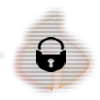
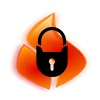
navegacion(regreso a perfiljugador e imagenes)
se crea el boton y la imlentacion de regreso a perfil jugador

diff --git a/FRONTEND/juego/js/logros/logros.js b/FRONTEND/juego/js/logros/logros.js
@@ -1,11 +1,12 @@
+
 var speedMult = 0.2;
 var friction = 0.99;
-var logros = ["Mi KuPlagio","Mi LifePlagio","Mi SkillPlagio","The originalPlagio","Mi HitBackground","Trendy","The Richest","The Unlocker","The A – List","5 in a row"];
+var charactersl = ["Mi KuPlagio","Mi LifePlagio","Mi SkillPlagio","The originalPlagio","Mi HitBackground","Trendy","The Richest","The Unlocker","The A – List","5 in a row"];
 // Nombres personajes Pacto de honor
-var namesLogros = ["Mi KuPlagio", "Mi LifePlagio ", "Mi SkillPlagio ", "The originalPlagio ", "Mi HitBackground  \n“Es poseedor de la experiencia, “Campeón de habilidades”", "Trendy  \n“Este logro indica que eres súper popular”", "The Richest  \n“Podrás presumir tu fortuna”", "The Unlocker \n“Eres el encargado para recuperar a todos los héroes”", "The A – List \n“Aquí mostrarás tus habilidades al llegar al top”","5 in a row \n“Cambio de un mundo a otro con un desempeño perfecto”",];
-var Logroslooked = [true, true, false , false, false, false, false, false, false, true];
+var namesCharactersl = ["Mi KuPlagio", "Mi LifePlagio ", "Mi SkillPlagio ", "The originalPlagio ", "Mi HitBackground  \n“Es poseedor de la experiencia, “Campeón de habilidades”", "Trendy  \n“Este logro indica que eres súper popular”", "The Richest  \n“Podrás presumir tu fortuna”", "The Unlocker \n“Eres el encargado para recuperar a todos los héroes”", "The A – List \n“Aquí mostrarás tus habilidades al llegar al top”","5 in a row \n“Cambio de un mundo a otro con un desempeño perfecto”",];
+var Logroslooked = [true, false, false , false, false, false, false, false, false, false];
 var description;
-var logro;
+var character;
 var apodo;
 var startButton;
 // Descripción de los logros
@@ -19,43 +20,50 @@ var descriptions = [ "Para adquirir este codiciado objetivo debes\nacumular 2 ho
                      "Este logro también tiene 3 etapas: \nLa primera al desbloquear al primer personaje en el mundo 2, \nen la segunda etapa desbloquearás de nuevo este logro al obtener \ntu quinto personaje y, por último, al desbloquear todos los \npersonajes y estar listo para la batalla final.",
                      "Para obtener las recompensas de este logro \ndebes cumplir 3 objetivos: Llegar al top 10 \nde al menos 1 ranking, como segundo objetivo debes llegar \nal top 5 de al menos 2 rankings y por último debes \nestar entre el top 3 de TODOS los rankings. \n¿Estás listo/lista para resaltar?",
                      "Para obtener este logro de perfección es necesario \nque pases todo un mundo sin perder ni una sola vez. \n¿Crees ser capaz de cumplir el reto?",
-                     ];
-
+                     ];    
 var logros = function(game){};
     logros.prototype = {
         preload: function(){
             game.scale.pageAlignHorizontally = true;
             game.scale.pageAlignVertically = true;
 
-            // Se carga una imagen transparente para colocar detras de las imagenes que apareceran en el Scrolling
-            game.load.image('transp', '../img/Componentes/logros/transp.png');
-            // Se cargan las imagenes de los 10 logros
-            game.load.image('Mi KuPlagio', '../img/Componentes/logros/KuPlagio.png');
-            game.load.image('Mi LifePlagio', '../img/Componentes/logros/LifePlagio.png');
-            game.load.image('Mi SkillPlagio', '../img/Componentes/logros/SkillPlagio.png');
-            game.load.image('The originalPlagio', '../img/Componentes/logros/OriginalPlagio.png');
-            game.load.image('Mi HitBackground', '../img/Componentes/logros/HitBackground.png');
-            game.load.image('Trendy', '../img/Componentes/logros/Trendy.png');
-            game.load.image('The Richest', '../img/Componentes/logros/Richest.png');
-            game.load.image('The Unlocker', '../img/Componentes/logros/Unlocker.png');
-            game.load.image('The A – List', '../img/Componentes/logros/Alist.png');
-            game.load.image('5 in a row', '../img/Componentes/logros/FiveRow.png');
-            game.load.spritesheet('botonVolver', '../img/Componentes/navegacionMapa/botonVolver.png', 62, 62);
-            
-            // Se carga el sprite del boton seleccionar
-            game.load.spritesheet('button', '../img/Componentes/logros/Spritebloq.png', 150, 40);     
+          // Se carga una imagen transparente para colocar detras de las imagenes que apareceran en el Scrolling
+          game.load.image("transp", "images/transp.png");
+          // Se cargan las imagenes de los 10 logros
+          game.load.spritesheet('Mi KuPlagio', '../img/Componentes/logros/KuPlagio.png');
+          game.load.spritesheet('Mi LifePlagio', '../img/Componentes/logros/LifePlagio.png');
+          game.load.spritesheet('Mi SkillPlagio', '../img/Componentes/logros/SkillPlagio.png');
+          game.load.spritesheet('The originalPlagio', '../img/Componentes/logros/OriginalPlagio.png');
+          game.load.spritesheet('Mi HitBackground', '../img/Componentes/logros/HitBackground.png');
+          game.load.spritesheet('Trendy', '../img/Componentes/logros/Trendy.png');
+          game.load.spritesheet('The Richest', '../img/Componentes/logros/Richest.png');
+          game.load.spritesheet('The Unlocker', '../img/Componentes/logros/Unlocker.png');
+          game.load.spritesheet('The A – List', '../img/Componentes/logros/Alist.png');
+          game.load.spritesheet('5 in a row', '../img/Componentes/logros/FiveRow.png');
+          game.load.spritesheet('atras', '../img/Componentes/logros/atras.png');
+
+          game.load.spritesheet('Mi KuPlagioLoock', '../img/Componentes/logros/KuPlagioLoock.png');
+          game.load.spritesheet('botonVolver', '../img/Componentes/navegacionMapa/botonVolver.png', 62, 62);
+
+
+
+              // Se carga el sprite del boton seleccionar
+             game.load.spritesheet('button', '../img/Componentes/logros/Spritebloq.png', 150, 40);   
+
+           
         },
 
-        create: function(){  
-            // Se coloca como fondo de la ventana el color #2451A6
-            game.stage.backgroundColor = "#2451A6";
+        create: function(){ 
+
+          // Se coloca como fondo de la ventana el color #2451A6
+          game.stage.backgroundColor = "#2451A6";
           
-            // Se agrega un titulo para la ventana, el cual sera "Logros", de tamaño 30 px, y "Roboto" como tipo de letra
+          // Se agrega un titulo para la ventana, el cual sera "Logros", de tamaño 30 px, y "Roboto" como tipo de letra
           // Se coloca en una posición especifica, con la instrucción ".anchor.set(0.5)" se centra en la posición dada
           game.add.text(game.width / 2, 50, "Logros", {font: "30px Roboto", fill: "#ffffff"}).anchor.set(0.5);
 
-          // Se agrega la funcion scrollingMap a la ventana, con una posición especifica, y se agrega la imagen transparente
-          this.scrollingMap = game.add.tileSprite(0, 0, 650 + logros.length * 90 + 64, game.height, "transp");
+          // Se agrega la funcion ScrollingMap a la ventana, con una posición especifica, y se agrega la imagen transparente
+          this.scrollingMap = game.add.tileSprite(0, 0, 650 + charactersl.length * 90 + 64, game.height, "transp");
           this.scrollingMap.inputEnabled = true;
           this.scrollingMap.input.enableDrag(false);
 
@@ -64,19 +72,23 @@ var logros = function(game){};
           this.scrollingMap.isBeingDragged = false; 
           this.scrollingMap.movingSpeed = 0;
 
-          // Se especifica que el scrollingMap sera solo horizontal
+          // Se especifica que el ScrollingMap sera solo horizontal
           this.scrollingMap.input.allowVerticalDrag = false;
           this.scrollingMap.input.boundsRect = new Phaser.Rectangle(game.width - this.scrollingMap.width, game.height - this.scrollingMap.height, this.scrollingMap.width * 2 - game.width, this.scrollingMap.height * 2 - game.height);
           
-          for(var i = 0; i < logros.length; i++){
+          for(var i = 0; i < charactersl.length; i++){
                // se agrega cada una de las 10 imagenes cargadas previamente de los 10 logros
-               logro = game.add.image(game.width / 2 + i * 90, 130, logros[i]);
+                if (Logroslooked[i]) {
+                  character = game.add.image(game.width / 2 + i * 90, 130, charactersl[i]+"Loock");
+               }else{
+                character = game.add.image(game.width / 2 + i * 90, 130, charactersl[i]);
+               }
 
                // Se centra la imagen cargada en la posición puesta en la linea anterior
-               logro.anchor.set(0.5);
+               character.anchor.set(0.5);
 
                // Se agrega al scrollingMap cada una de las imagenes cargadas
-               this.scrollingMap.addChild(logro);
+               this.scrollingMap.addChild(character);
           }
 
           // Se agrega enventos a las imagenes del scrollingMap para cuando este en movimiento
@@ -105,16 +117,18 @@ var logros = function(game){};
           startButton = game.add.button(game.world.width / 2, 540, 'button', null, this, 2, 1, 0); // over, out, down, up
           startButton.anchor.set(0.5);
 
+    
           game.add.button(0, 0,'botonVolver', this.verPerfil, 1, 1, 0, 2);
 
-     },
+        },
         
         verPerfil: function(){
             game.state.start("perfilJugador");
         },
         
         update:function(){
-          // Se declara una variable llamada "zoomed" de tipo booleana, que representara cuando un elemento del scrolling map este seleccionada
+
+           // Se declara una variable llamada "zoomed" de tipo booleana, que representara cuando un elemento del scrolling map este seleccionada
           var zoomed = false;
 
           // Este ciclo recorre el scrollingMap
@@ -128,14 +142,14 @@ var logros = function(game){};
                     for (var j = 0; j < descriptions.length; j++) {
                          if(i == j){
                               // Se va modificando los nombres de los personajes de acuerdo al personaje en el que se este
-                              apodo.setText(namesLogros[j]);
+                              apodo.setText(namesCharactersl[j]);
 
                               // Se va modificando las descripciones de los personajes de acuerdo al personaje en el que se este
                               description.setText(descriptions[j]);
 
                               if (!Logroslooked[j]) {
                                 
-                                 // this.scrollingMap.game.add.image(game.width / 2 + i * 90, 130, logros[i]);
+                                 // this.scrollingMap.game.add.image(game.width / 2 + i * 90, 130, characters[i]);
                                   startButton = game.add.button(game.world.width / 2, 540, 'button',null, this, 2, 2, 2); 
                                   startButton.anchor.set(0.5);
                               }
@@ -160,7 +174,7 @@ var logros = function(game){};
           else{
                if(this.scrollingMap.movingSpeed > 1){
                     this.scrollingMap.x += this.scrollingMap.movingSpeed * Math.cos(this.scrollingMap.movingangle);
-                    // Si la posición en x es menor al ancho definido para el scrollingMap, se define la velocidad en que se mueve dentro del scrollingMap
+                    // Si la posición en x es menor al ancho definido para el scrollingMap, se define la velocidad en que se mueve dentro del ScrollingMap
                     if(this.scrollingMap.x < game.width - this.scrollingMap.width){
                          this.scrollingMap.x = game.width - this.scrollingMap.width;
                          this.scrollingMap.movingSpeed *= 0.5;
@@ -185,5 +199,7 @@ var logros = function(game){};
                     }
                }
           }
-     }
+
+        }
+         
 }

diff --git a/FRONTEND/juego/js/perfilJugador/perfilJugador.js b/FRONTEND/juego/js/perfilJugador/perfilJugador.js
@@ -27,7 +27,7 @@ var perfilJugador = function(game){};
             game.add.button(0, 0,'botonVolver', this.verNavegacion, 1, 1, 0, 2);
             game.add.button(90, 290,'boton-personaje', null, 0, 0, 0, 0);
             game.add.button(450, 290,'boton-jefes', null, 0, 0, 0, 0);
-            game.add.button(90, 450,'boton-trofeo', null, 0, 0, 0, 0);
+            game.add.button(90, 450,'boton-trofeo', this.verLogros, 0, 0, 0, 0);
             game.add.button(450, 450,'boton-alfanumerico', null, 0, 0, 0, 0);
 
             game.add.text(400, 50, "Perfil del usuario", {font: "25px Roboto", fill: "#ffffff"}).anchor.set(0.5);
@@ -40,9 +40,9 @@ var perfilJugador = function(game){};
             game.state.start("navegacion");
         },
         
-        /*verLogros: function(){
+        verLogros: function(){
             game.state.start("logros");
-        },*/
+        },
 
         update : function(){
 

diff --git a/FRONTEND/juego/html/indexGame.html b/FRONTEND/juego/html/indexGame.html
@@ -9,7 +9,7 @@
         <script src="../js/creditos/creditos.js"></script>
         <script src="../js/invitarAmigos/invitarAmigos.js"></script>
         <script src="../js/perfilJugador/perfilJugador.js"></script>
-        <!--<script src="../js/logros/logros.js"></script>-->
+        <script src="../js/logros/logros.js"></script>
 		<script src="../js/seleccionPersonaje/personajeInicial/seleccionpersonaje.js"></script>
         <script src="../js/mapaDenavegacion/navegacion.js"></script>
 	    <script src="../js/phaser/primer.js"></script>

diff --git a/FRONTEND/juego/js/phaser/game.js b/FRONTEND/juego/js/phaser/game.js
@@ -5,7 +5,7 @@ var game = new Phaser.Game (800, 600, Phaser.CANVAS, 'game');
     game.state.add("creditos", creditos);
     game.state.add("invitarAmigos", invitarAmigos);
     game.state.add("perfilJugador", perfilJugador);
-    //game.state.add("logros", logros);
+    game.state.add("logros", logros);
     game.state.add("seleccionpersonaje", seleccionpersonaje);    
     game.state.add("seleccionavatar", seleccionavatar);
     game.state.add("fin", fin);    
